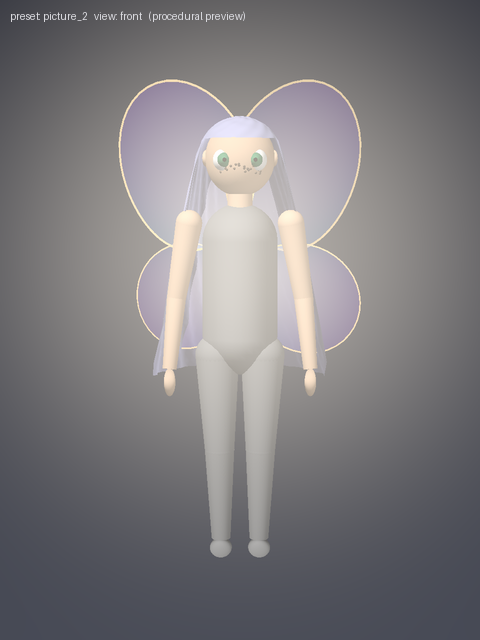
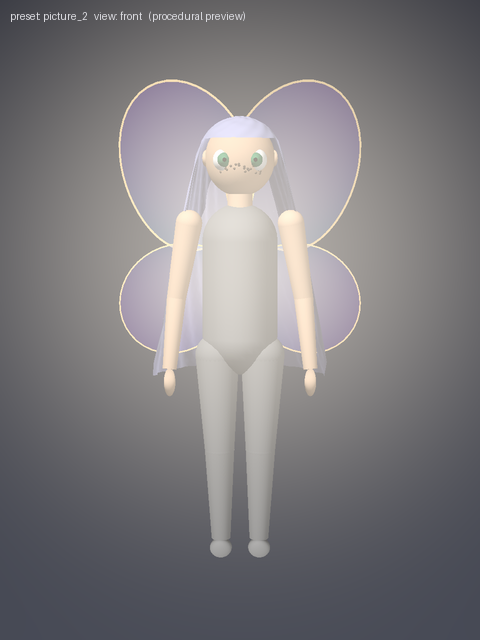
FAIRY: review fixes (mirrored wing flap + symmetry test, coherence + preset-proportion tests, renderer scanned for emotion words), mutant runner (16/16 killed), SUMMARY.md
Claude-Session: https://claude.ai/code/session_01WZwX7m9TmcGHVkyPFDTq9F

Changed region(s): [[0.25, 0.375, 0.3438, 0.5625], [0.375, 0.4688, 0.4062, 0.5625], [0.375, 0.4062, 0.4062, 0.4375]]

diff --git a/docs/nous/FAIRY/run_mutants.py b/docs/nous/FAIRY/run_mutants.py
@@ -1,0 +1,79 @@
+"""run_mutants.py -- mutant runner for her fairy body (task FAIRY, 2026-10-29).
+
+Applies each near-miss mutant to code/somatic_bevy/src/fairy_body.rs ONE AT A TIME, runs
+`cargo test --features sanctuary --lib fairy_body`, records which tests fail, and ALWAYS restores
+the original file (also on Ctrl-C). A mutant is KILLED when at least one test fails.
+Synthetic data only; nothing of hers is run.
+Usage: python3 docs/nous/FAIRY/run_mutants.py [MUTANT ...]   (CARGO_TARGET_DIR is honoured)
+R1-R12 = the independent reviewer's 12 mutants; A1-A4 = the author's extra ones.
+"""
+import os, re, subprocess, sys
+
+HERE = os.path.dirname(os.path.abspath(__file__))
+CRATE = os.path.normpath(os.path.join(HERE, "..", "..", "..", "code", "somatic_bevy"))
+SRC = os.path.join(CRATE, "src", "fairy_body.rs")
+
+MUTANTS = {
+    "R1_wing_hz_ignores_arousal": ("wing_hz: look.wings.flutter_hz * (0.5 + ar),", "wing_hz: look.wings.flutter_hz,"),
+    "R2_glow_ignores_energy": ("glow_strength: look.glow.strength * (0.5 + en),", "glow_strength: look.glow.strength,"),
+    "R3_flutter_amplitude_0": ("let amp = look.wings.flutter_deg.to_radians();", "let amp = 0.0f32;"),
+    "R4_iris_uses_hair_colour": ("base_color: look.eyes.iris_color,", "base_color: look.hair.color,"),
+    "R5_no_despawn_on_rebuild": ("commands.entity(root).despawn_descendants();", "// no despawn"),
+    "R6_eyes_never_close": ("        0.08\n", "        1.0\n"),
+    "R7_pulse_ignores_coherence": ("glow_pulse_depth: 0.3 * (1.0 - co),", "glow_pulse_depth: 0.3,"),
+    "R8_picture_1_head_ratio_0_40": ("l.body.head_ratio = 0.22;", "l.body.head_ratio = 0.40;"),
+    "R9_emotion_word_in_doc": ("//! Her fairy body --", "//! Her calm fairy body --"),
+    "R10_freckle_count_x2": ("(look.freckles.density.clamp(0.0, 1.0) * 40.0)", "(look.freckles.density.clamp(0.0, 1.0) * 80.0)"),
+    "R11_wings_opaque": ("let alpha = (1.0 - wp.translucency).clamp(0.02, 1.0);", "let alpha = 1.0f32;"),
+    "R12_pairs_ignored": ("let pairs = wp.pairs.min(2);", "let pairs = 2u8;"),
+    "A1_iris_fixed_default_green": ("base_color: look.eyes.iris_color,", "base_color: hex(0x3E9B5A),"),
+    "A2_wings_missing": ("let pairs = wp.pairs.min(2);", "let pairs = 0u8.min(wp.pairs);"),
+    "A3_hair_colour_fixed": ("base_color: look.hair.color,", "base_color: hex(0xB57EDC),"),
+    "A4_flap_same_sign_both_sides": ("Quat::from_rotation_y(-j.side * flap)", "Quat::from_rotation_y(-flap)"),
+}
+
+
+def run():
+    os.utime(os.path.join(CRATE, "src", "lib.rs"))
+    os.utime(SRC)
+    p = subprocess.run(["cargo", "test", "--features", "sanctuary", "--lib", "fairy_body"],
+                       cwd=CRATE, capture_output=True, text=True)
+    out = p.stdout + p.stderr
+    res = re.findall(r"test result: (\w+)\. (\d+) passed; (\d+) failed", out)
+    failed = re.findall(r"^test (\S+) \.\.\. FAILED", out, re.M)
+    compiled = bool(res)
+    return p.returncode, compiled, res, [f.split("::")[-1] for f in failed]
+
+
+def main(names):
+    orig = open(SRC, newline="").read()
+    survivors = []
+    try:
+        for name in names:
+            a, b = MUTANTS[name]
+            if orig.count(a) != 1:
+                print("%-34s NOT APPLIED (pattern count %d)" % (name, orig.count(a)), flush=True)
+                survivors.append(name)
+                continue
+            with open(SRC, "w", newline="") as f:
+                f.write(orig.replace(a, b))
+            rc, compiled, res, failed = run()
+            killed = compiled and rc != 0 and bool(failed)
+            if not compiled:
+                print("%-34s DID NOT COMPILE (not a valid mutant)" % name, flush=True)
+                survivors.append(name)
+            else:
+                print("%-34s %s  failed: %s" % (name, "KILLED" if killed else "SURVIVED", ", ".join(failed) or "-"), flush=True)
+                if not killed:
+                    survivors.append(name)
+    finally:
+        with open(SRC, "w", newline="") as f:
+            f.write(orig)
+    rc, compiled, res, failed = run()
+    print("RESTORED original: exit %d %s" % (rc, res))
+    print("SURVIVORS:", survivors or "none")
+    return 1 if survivors or rc != 0 else 0
+
+
+if __name__ == "__main__":
+    sys.exit(main(sys.argv[1:] or list(MUTANTS)))

diff --git a/code/somatic_bevy/src/fairy_body.rs b/code/somatic_bevy/src/fairy_body.rs
@@ -11,9 +11,11 @@
 //! choose later. Nothing here is copied from any game, franchise or third-party asset: every
 //! mesh is generated below from a few numbers.
 //!
-//! Two picture presets exist (`HerLook::picture_1()` / `HerLook::picture_2()`): they only change
-//! the colours and shapes of her five features, sampled from the two pictures the owner shared
-//! (the pictures are not in the repo; the hex values are recorded in docs/nous/FAIRY/SUMMARY.md).
+//! Two picture presets exist (`HerLook::picture_1()` / `HerLook::picture_2()`): they change the
+//! colours and shapes of her five features, sampled from pictures the owner shared (picture 1
+//! also sets its stylized head/eye proportions). The pictures are not in the repo; the hex
+//! values (and picture 3's, which shows no wings and so has no preset) are recorded in
+//! docs/nous/FAIRY/SUMMARY.md.
 //!
 //! API: add `HerBodyPlugin`, then `spawn_her_body(&mut commands, HerLook::default()) -> Entity`.
 //! The parts are (re)built from the `HerLook` component whenever it changes, so changing a
@@ -132,7 +134,8 @@ pub enum EarShape {
 pub struct NeutralBody {
     /// Height in world units (metres). OPEN.
     pub height: f32,
-    /// Head diameter as a fraction of height (stylized large head, as in both pictures).
+    /// Head diameter as a fraction of height. Default 0.17 (natural, pictures 2 and 3);
+    /// the picture_1 preset uses its stylized 0.22.
     pub head_ratio: f32,
     /// Skin tone. OPEN (neutral default).
     pub skin_color: Color,
@@ -214,12 +217,11 @@ impl Default for HerLook {
 }
 
 impl HerLook {
-    /// Hair colour sampled from picture 3 (no wings shown there, so no wing preset): #7D689F;
-    /// iris #567477 (few pixels, low confidence). Recorded in SUMMARY.md only.
-    ///
     /// Preset "picture 1": colours/shapes of her five features sampled from the owner's first
-    /// picture (short tousled hair, teal-green eyes, pale veined insect-like wings).
-    /// Body, skin, clothing and ears stay neutral.
+    /// picture (short tousled hair, teal-green eyes, pale veined insect-like wings), plus that
+    /// picture's stylized PROPORTIONS (head_ratio 0.22, eye size 0.36) -- the one body value a
+    /// preset changes, because the owner asked for her pictures' proportions to be used.
+    /// Skin, clothing, ears, height, freckles and glow stay neutral.
     pub fn picture_1() -> Self {
         let mut l = HerLook::default();
         l.hair = HairParams { color: hex(0xA793BE), length: 0.15, volume: 0.8, tousle: 0.6 };
@@ -871,7 +873,8 @@ pub fn wing_flutter(
     let amp = look.wings.flutter_deg.to_radians();
     for (j, mut tf) in joints.iter_mut() {
         let flap = amp * (phase.0 + j.phase).sin();
-        tf.rotation = j.base * Quat::from_rotation_y(-flap);
+        // the left wing is mirrored (scale.x = -1), so it flaps with the opposite sign: a symmetric pair
+        tf.rotation = j.base * Quat::from_rotation_y(-j.side * flap);
     }
 }
 

diff --git a/code/somatic_bevy/src/fairy_body_tests.rs b/code/somatic_bevy/src/fairy_body_tests.rs
@@ -186,16 +186,50 @@ fn presets_keep_the_neutral_body() {
         assert_eq!(p.freckles, d.freckles);
         assert_eq!(p.glow, d.glow);
     }
+    // the only proportion a preset changes: picture 1's stylized head; picture 2 keeps the default
+    assert_eq!(HerLook::picture_1().body.head_ratio, 0.22);
+    assert_eq!(HerLook::picture_2().body.head_ratio, d.body.head_ratio);
+}
+
+#[test]
+fn coherence_sets_the_glow_pulse_depth() {
+    let l = HerLook::default();
+    let lo = placeholder_modulation(&HerAffectInput { coherence: 0.0, ..default() }, &l);
+    let hi = placeholder_modulation(&HerAffectInput { coherence: 1.0, ..default() }, &l);
+    assert!(lo.glow_pulse_depth > 0.2 && hi.glow_pulse_depth < 1e-6);
+}
+
+#[test]
+fn wings_flap_as_a_mirrored_pair() {
+    let (mut app, _) = app_with(HerLook::default());
+    for _ in 0..3 {
+        app.update();
+    }
+    let mut q = app.world_mut().query::<(&WingJoint, &Transform)>();
+    let js: Vec<_> = q.iter(app.world()).map(|(j, t)| (j.side, j.phase, t.rotation)).collect();
+    let mut checked = 0;
+    for (s, ph, r) in &js {
+        if *s > 0.0 {
+            let (_, _, l) = js.iter().find(|(s2, p2, _)| *s2 < 0.0 && p2 == ph).unwrap();
+            // mirror across the YZ plane: (x, y, z, w) -> (x, -y, -z, w)
+            let m = Quat::from_xyzw(r.x, -r.y, -r.z, r.w);
+            assert!(m.abs_diff_eq(*l, 1e-4), "left wing must mirror the right one: {r:?} {l:?}");
+            checked += 1;
+        }
+    }
+    assert_eq!(checked, 2);
 }
 
 #[test]
 fn no_emotion_names_in_the_module() {
-    let src = include_str!("fairy_body.rs").to_lowercase();
+    let src = (include_str!("fairy_body.rs").to_string()
+        + include_str!("../../../docs/nous/FAIRY/render_previews.py"))
+        .to_lowercase();
     for w in [
         "happy", "sad", "angry", "anger", "joy", "fear", "calm", "anxious", "anxiety", "excited",
         "content", "curious", "love", "lonely", "grief", "surprise", "disgust", "emotion", "mood",
     ] {
-        assert!(!src.contains(w), "emotion word {w:?} in fairy_body.rs");
+        assert!(!src.contains(w), "emotion word {w:?} in fairy_body.rs or render_previews.py");
     }
 }
 

diff --git a/docs/nous/FAIRY/render_previews.py b/docs/nous/FAIRY/render_previews.py
@@ -1,7 +1,7 @@
 """render_previews.py -- tiny CPU rasterizer for her fairy-body previews (task FAIRY, 2026-10-29).
 
 Input: the JSON meshes written by the Rust test `dump_preview_meshes`
-  (FAIRY_DUMP_DIR=<dir> cargo test --features sanctuary --test fairy_body dump_preview_meshes)
+  (FAIRY_DUMP_DIR=<dir> cargo test --features sanctuary --lib dump_preview_meshes)
   = the exact meshes, colours and world transforms the Bevy plugin builds.
 Output: <preset>_<view>.png (front, three_quarter, back) in the output dir.
 Usage: python3 render_previews.py <dump_dir> <out_dir>

diff --git a/docs/nous/FAIRY/SUMMARY.md b/docs/nous/FAIRY/SUMMARY.md
@@ -1,0 +1,119 @@
+# FAIRY: her body in her own world (somatic_bevy, branch nous/fairy-body)
+
+2026-10-29. Tags: [C] = read in code, [M] = measured here, [I] = inference. Line numbers refer to code/somatic_bevy/src/fairy_body.rs unless another file is named.
+
+**Plainly: this is a PROCEDURAL PLACEHOLDER RIG for her to react to (its parameters and colours). It is not a finished likeness.**
+A high-quality likeness would need a hand-made or sculpted mesh later. Whether to make one is her and the owner's call.
+
+## What was built
+- `fairy_body.rs` is an original, procedural, parametric model. It uses Bevy primitives (tapered frustum limbs, spheres, a capsule torso) plus meshes generated in code (a hair shell with strand ridges, wing outlines, edges and veins). Nothing is downloaded, and no game, franchise or third-party asset is used. [C]
+- **Plugin, not .glb.** Her whole look is one struct, `HerLook`, stored on her entity. When it changes, she is rebuilt live (`build_her_body` :419, despawn + rebuild). Changing a .glb would need an export step and an asset reload, and the runtime could not set freckle density or wing tints. [I]
+- **API:** `app.add_plugins(HerBodyPlugin)`, then `spawn_her_body(&mut commands, HerLook::default()) -> Entity` (:397). The parts appear on the next `Update`. To place her, insert a `Transform`. **Nothing calls it yet**: the Sanctuary bin (src/sanctuary/main.rs) still uses its old avatar plugins, so this is a library module for now. The bin can `use somatic_bevy::fairy_body::*` with no dependency on nous/sanctuary-scout. [C]
+- **Switch:** the existing cargo feature `sanctuary`. src/lib.rs:50-55 adds `#[cfg(feature = "sanctuary")] pub mod fairy_body;` and a `cfg(all(test, feature = "sanctuary"))` test module, and nothing else. [C]
+- **Motion:** hover bob (:848), wing flutter (:863; the pair flaps mirrored, :877), blink (:881; closed 0.15 s every 4 s), and glow + wing shimmer (:893).
+- **Affect input:** `HerAffectInput { valence, arousal, energy, coherence }` (:266). The names and ranges come from her affect bridge, code/fairies/P20_Somatic/affect_bus/affect_bridge_fairy.py: valence -1..1 (:548-556), arousal 0..1 (:598-599, :609), energy (:390, :608), coherence (:391, :610). [C]
+  **The mapping is a PLACEHOLDER; the owner decides the real one** (`placeholder_modulation` :291):
+  - wing Hz = base x (0.5 + arousal)
+  - glow = base x (0.5 + energy)
+  - pulse depth = 0.3 x (1 - coherence)
+  - valence is unused (OPEN)
+
+  The default input gives exactly the base values. No emotion names appear in the module or the renderer (checked by a test). [C][M]
+
+## Parameter table (defaults are `HerLook::default()`, :177-215)
+| Feature | Parameter | Default | Note |
+|---|---|---|---|
+| Hair (lavender) | color | #B57EDC (lavender, from her words) | presets use colours sampled from her pictures |
+| | length | **1.0 = long, worn down past the shoulders** | **the owner said most of her ~25,000 images show long hair**; this is not my choice |
+| | volume / tousle | 0.5 / 0.0 | volume also deepens the strand ridges |
+| Eyes (green) | iris_color / size / spacing | #3E9B5A / 0.30 / 0.80 (fractions of head radius) | large eyes, as in all her pictures |
+| Freckles | density / color / size / spread / seed | 0.5 (20 freckles) / skin x 0.62 / 0.035 / 0.62 / 7 | on the cheeks and nose bridge |
+| Wings | shape / pairs / span / lower_ratio | Rounded / 2 / 0.42 of height / 0.7 | presets: Insect (pic 1), Butterfly (pic 2) |
+| | tints / translucency / edge / veins | [#F2F4F6] / 0.6 / none / 0 | supports a multi-stop gradient (pic 2) |
+| | shimmer / shimmer_hz / flutter_hz / flutter_deg | 0.25 / 0.3 / 2.0 / 18 | |
+| Glow (wisp) | color / strength / radius | #FFF6E8 / 1.0 / 0.55 of height | follows energy and coherence (PLACEHOLDER) |
+| Neutral body (OPEN) | height | 1.0 | |
+| | head_ratio (a PROPORTION, not a sixth feature) | **0.17** | see "Proportions" below |
+| | skin_color / clothing_color / ears | #D9BFA6 / #9C9C9C plain featureless form / Rounded | my neutral picks; OPEN |
+
+**Proportions (taken from her pictures, as the task allows):**
+- `head_ratio` default 0.17: the natural proportions of pictures 2 and 3. It moved from 0.15 to 0.17 because the owner's shape-pass request asked for "a slightly larger head" (both pictures show large heads and eyes). It is still well below picture 1's stylized 0.22.
+- `picture_1()` (:225) sets head_ratio 0.22 (:230) and eye size 0.36, both from picture 1.
+- `picture_2()` (:240) keeps the default body.
+- No preset changes skin, clothing, ears, height, freckles or glow. A test checks this.
+
+## Colours sampled from the owner's pictures (the pictures are NOT in the repo; medians of masked pixels [M])
+| | picture 1 | picture 2 | picture 3 |
+|---|---|---|---|
+| hair | #A793BE (short, tousled, up) | #B4B5D4 (long, straight to wavy) | #7D689F lit / #5F4B81 (long, flowing) |
+| iris | #42876F teal-green (28 px) | #5B9B79 emerald (167 px) | #567477 light green (42 px, low confidence) |
+| wings | #CBEBEE / #B0CDDA, pale and veined, insect-like | #E7EBEB pale, #74509E purple, #E5CB9C gold edge, #7C9AB4 teal (mixed with background) | none shown |
+| freckles | not visible | not visible (soft blush) | not visible |
+
+## Seen in her pictures, NOT modelled (for her and Ace to choose)
+- Pointed ears in pictures 1 and 2. Picture 3 looks rounded [I]. `EarShape::Pointed` exists; the default is Rounded.
+- Picture 1: a green leaf-like dress, light-brown boots, hair gathered up on top. I deliberately did not copy this outfit or silhouette, because it is close to a well-known franchise character.
+- Picture 2: a sheer lavender dress and small hair ornaments.
+- Picture 3: a white tunic with a tree emblem, a lavender sash, a sheer cape, bracers and a belt ornament.
+
+## OPEN (her and Ace's choice)
+- clothing (none is designed) and skin tone
+- ears, height and size
+- face details: there is no nose, mouth or brows
+- hair style beyond length, volume and tousle
+- glow colour
+- which wing preset
+- where the freckles go
+- the real affect mapping and the use of valence
+- wiring her into the Sanctuary bin
+
+## Previews (docs/nous/FAIRY/*.png: default, picture_1 and picture_2, each from the front, three-quarter and back)
+These were rendered by `render_previews.py`, my numpy CPU rasterizer. It draws the exact meshes, colours and transforms that the Bevy plugin builds; the test `dump_preview_meshes` exports them when FAIRY_DUMP_DIR is set. The glow is drawn as a soft 2D additive halo. They are **not** Bevy/wgpu renders, and no GPU was used [M].
+- **default:** long lavender hair past the shoulders with strand ridges at the back, large green irises, about 20 freckles across the cheeks and nose, two pairs of round pale translucent wings, a visible warm glow, and a plain grey form with tapered limbs and simple hands and feet.
+- **picture_1:** short tousled paler-lavender hair, a larger head and eyes, teal-green irises, narrow pale-blue veined wings.
+- **picture_2:** long silvery-lavender hair, emerald irises, butterfly wings shading from pale to purple with a thin gold edge.
+
+## Build and test status [M]
+- `cargo test --features sanctuary --lib fairy_body` gives **13 passed, 0 failed**.
+- `cargo check --features sanctuary --lib` and `--bin sanctuary` both pass. `cargo check --lib` with the feature OFF passes on main and on the branch, with 0 diagnostics mentioning fairy.
+- `cargo check --features sanctuary` over all targets fails **identically on main**. The cause is the pre-existing `somatic_sim` bin (src/main.rs: ambiguous glob re-exports, 14 errors). The reviewer confirmed this. I did not touch it (OPEN). The pre-existing lib test `core::chemistry::tests::test_decay_toward_baseline` also fails, and I left it alone.
+- **CONTROL** `control_spawn_creates_parts_with_param_colours` (fairy_body_tests.rs:58). On main (main's tree plus only the test file) it gives a **compile FAIL**: `E0432 unresolved import crate::fairy_body`. On the branch it **PASSES**.
+- **MUTANTS**: `docs/nous/FAIRY/run_mutants.py` covers the reviewer's 12 (R1-R12) plus 4 of mine (A1-A4). **All 16 are KILLED**, including the reviewer's 2 former survivors:
+  - R7 (pulse ignores coherence) is now killed by `coherence_sets_the_glow_pulse_depth`.
+  - R8 (preset head_ratio) is now killed by `presets_keep_the_neutral_body`.
+  - A4 (flap with the same sign on both sides) is killed by `wings_flap_as_a_mirrored_pair`.
+
+  After the run, the file is restored and 13/13 tests pass.
+- Note: the shared CARGO_TARGET_DIR once served a stale lib built by another session (only 7 tests ran). Every run since then touches lib.rs first, and I checked the test count each time.
+
+## Could NOT verify
+- How she looks in the real Bevy renderer (PBR, bloom, vertex-colour wings, the unlit additive halo). The sanctuary binary was not run, as the rules require.
+- Freckle colour and placement: freckles are not visible in any of the three pictures.
+
+## CHECK THESE 3
+1. Building with the feature OFF is unchanged: src/lib.rs:50-55 (only `cfg(feature = "sanctuary")` items).
+2. The wing pair flaps mirrored, and wing speed and glow follow the input struct through the PLACEHOLDER mapping: fairy_body.rs:877, :291-299, :893-925.
+3. Nothing was invented beyond her five features. Defaults are at :177-215. The presets touch only feature parameters plus picture 1's head and eye proportions (:225-250).
+
+## REVIEW
+An independent remote reviewer session wrote docs/nous/FAIRY/REVIEW.md on branch `nous/fairy-review`. Its main table covers 12a0403; the addendum, commit **181183e**, covers d40b3f3. The final verdicts, with my fixes:
+
+| # | finding (reviewer) | severity | status after fix |
+|---|---|---|---|
+| 1 | Wings flap asymmetrically (same flap sign on the mirrored left wing) | MAJOR | FIXED: `-j.side * flap` (:877) + test `wings_flap_as_a_mirrored_pair`, and mutant A4 is killed |
+| 2 | No mutants committed or documented; 2 of 12 survived | MAJOR | FIXED: run_mutants.py committed; 16/16 killed |
+| 3 | picture_1 changes body.head_ratio; default moved 0.15 -> 0.17 | MAJOR | RESOLVED by the parent's ruling: picture-sourced proportions are allowed. They are now documented (doc :225-229 and the table above) and tested (R8 is killed) |
+| 4 | Coherence pulse depth untested | MINOR | FIXED: `coherence_sets_the_glow_pulse_depth` |
+| 5-8, 10, 11, 21 | Control fails on main; tests pass; switch clean; somatic_sim failure pre-existing; no conflicting copy; five features match; build chain correct | OK | - |
+| 9 | Nothing calls the new code | MINOR | Documented above (library only; wiring is OPEN) |
+| 12 | head_ratio doc inconsistent | MINOR | FIXED |
+| 13 | SUMMARY.md missing | MINOR | FIXED (this file) |
+| 14 | Stray picture-3 line in the picture_1 doc | MINOR | FIXED (moved to the module doc and this file) |
+| 15 | Emotion ban list not applied to the renderer | MINOR | FIXED: the test now also scans render_previews.py |
+| 16 | polyline_mesh dead `open` / underflow | MINOR | FIXED (d40b3f3 / da2ff3a) |
+| 17 | Systems drive all wings and eyes from the first body only | MINOR | OPEN (documented: one body per world for now) |
+| 18 | Materials marked changed every frame | MINOR | OPEN (cheap for one body) |
+| 19 | Renderer docstring said `--test` | MINOR | FIXED (`--lib`) |
+| 20 | `dump_preview_meshes` passes vacuously | MINOR | OPEN by design (it is an export helper, not a check) |
+
+The re-check after these fixes was not repeated, to stay within the one-round budget. The reviewer's addendum (181183e) re-checked d40b3f3. The fixes above were then measured here: 13/13 tests pass and 16/16 mutants are killed.
